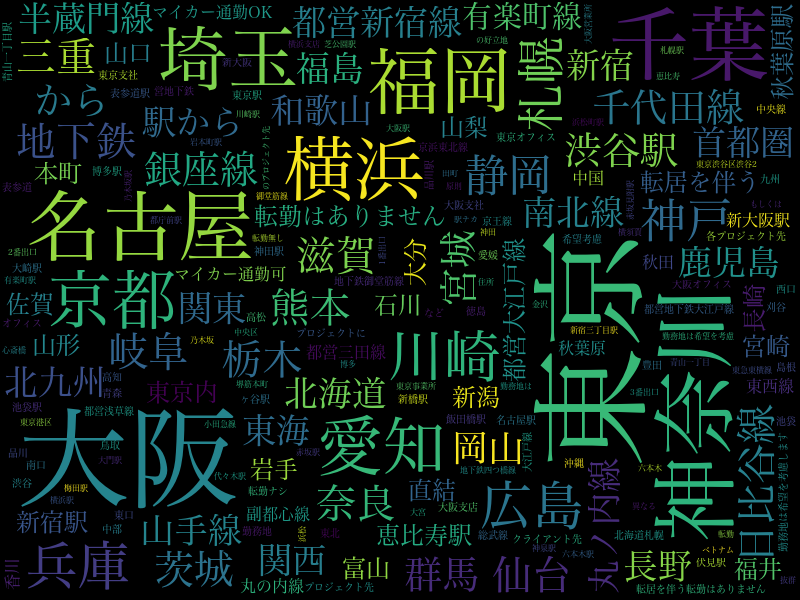
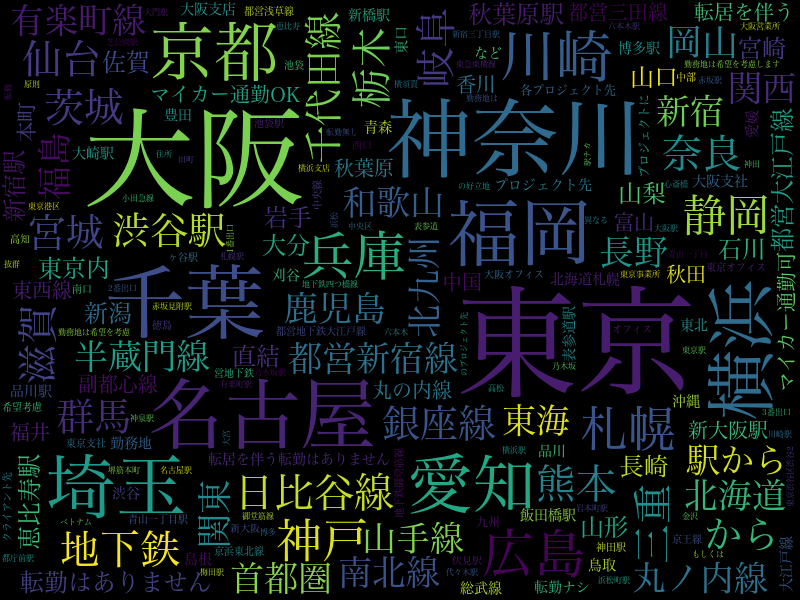
update: jobs，更新项目结构，重构词云生成逻辑

diff --git a/jobs/analysis/analysis.py b/jobs/analysis/analysis.py
@@ -19,8 +19,7 @@ where = ' where 1=1 and during<>"" '  # 默认为rikunabi中的新数据 + tensh
 def main():
     list = get_all()
     basic_analysis(list)
-    wordcloud_skill(list)
-    wordcloud_addr(list)
+    wordcloud_analysis(list)
 
 # 基本分析
 def basic_analysis(list):
@@ -69,30 +68,39 @@ def basic_analysis(list):
 
     conn.close()
 
-# 技能词云
-def wordcloud_skill(list):
+# 词云分析
+def wordcloud_analysis(list):
+
+    # 技能
     name = 'skill'
-    img_path = 'src/%s.png' % name
-    skill_arr = []
+    key_map = ['content', 'claim', 'tags']
+    wordcloud_common(name, key_map, list, format_skill)
 
-    for row in list:
-        skill_arr.append(format_skill(row[2]))  # content 工作内容
-        skill_arr.append(format_skill(row[3]))  # claim 任职要求
-        skill_arr.append(format_skill(row[10]) + '\n')  # tags 标签
-    skill_str = '\n'.join(skill_arr)
-    create_wordcloud(skill_str, img_path)
-    write_file(name, skill_str, list, [2, 3, 10])
-
-# 工作地点词云
-def wordcloud_addr(list):
+    # 工作地点
     name = 'addr'
-    img_path = './src/%s.png' % name
-    addr_arr = []
-    for row in list:
-        addr_arr.append(format_addr(row[4]))  # addr 地址
-    addr_str = '\n'.join(addr_arr)
-    create_wordcloud(addr_str, img_path)
-    write_file(name, addr_str, list, [4])
+    wordcloud_common(name, [name], list, format_addr)
+
+    # 休日・休暇
+    name = 'holiday'
+    wordcloud_common(name, [name], list, format_common)
+
+    # 待遇・福利厚生
+    name = 'welfare'
+    wordcloud_common(name, [name], list, format_common)
+
+# ----------------------- 工具函数 -----------------------
+# 词云生成公共函数
+def wordcloud_common(name, key_map, list, format_fn):
+    img_path = 'src/%s.png' % name
+    str_arr = []
+
+    for data in list:
+        for key in key_map:
+            str_arr.append(format_fn(data[key] + '\n'))
+    str_str = '\n'.join(str_arr)
+
+    create_wordcloud(str_str, img_path)
+    write_file(name, str_str, list, key_map)
 
 # 创建词云 + 保存图片
 def create_wordcloud(text, img_path):
@@ -118,22 +126,22 @@ def create_wordcloud(text, img_path):
     wordcloud.to_file(img_path)
 
 # 将原始文本和过滤之后的文本存储到文件中，方便查看对比
-def write_file(name, text, list, idx_arr):
+def write_file(name, text, list, key_map):
     if not DEBUG: return
-    file_raw = 'src/%s.txt' % (name + '_raw')
-    file_filter = 'src/%s.txt' % (name + '_filter')
+    file_raw = 'src/text/%s.txt' % (name + '_raw')
+    file_filter = 'src/text/%s.txt' % (name + '_filter')
 
     # 过滤之后的数据 src/add_filter.txt
     with open(file_filter, "w") as f:  # w-覆盖
         f.write(text)
         f.close()
 
-    # 原始数据文件 src/add_raw.txt，如果存在就不重写，因为原始数据没有经过处理，不用每次重新生成
+    # 原始数据文件xx_raw.txt，如果存在就不重写，因为原始数据没有经过处理，不用每次重新生成
     if os.path.exists(file_raw): return
     with open(file_raw, "w") as f:
-        for row in list:
-            for idx in idx_arr:
-                f.write(row[idx] + '\n')
+        for data in list:
+            for key in key_map:
+                f.write(data[key] + '\n')
             f.write('\n')
         f.close()
 
@@ -160,6 +168,12 @@ def format_addr(str):
     s1 = re.sub(r'(東京23区)|(東京都)|(東京内)', '東京', s1)
     return s1
 
+# 公共格式化内容字符串
+def format_common(str):
+    s1 = strQ2B(str)
+    s1 = re.sub(r'<[\w\d_\-!.\'\"\/\s=]+>', ',', s1)
+    return s1
+
 # 全角转半角
 def strQ2B(ustring):
     rstring = ""
@@ -178,8 +192,22 @@ def get_all():
     cur = conn.cursor()
     sql = 'select * from total %s' % where
     cur.execute(sql)
-    list = cur.fetchall()
+    rows = cur.fetchall()
     conn.close()
+
+    list = []
+    key_map = ['id', 'title', 'content', 'claim', 'addr', 'salary',
+               'worktime', 'holiday', 'welfare', 'during', 'tags',
+               'company', 'desc', 'url', 'ntype', 'createdTime']
+
+    for row in rows:
+        data = {}
+        idx = 0
+        for key in key_map:
+            data[key] = row[idx]
+            idx += 1
+        list.append(data)
+
     return list
 
 if __name__ == "__main__":

diff --git a/jobs/analysis/src/text/readme.md b/jobs/analysis/src/text/readme.md
@@ -1,0 +1,2 @@
+# text
+存放原始文本文件的文件夹
